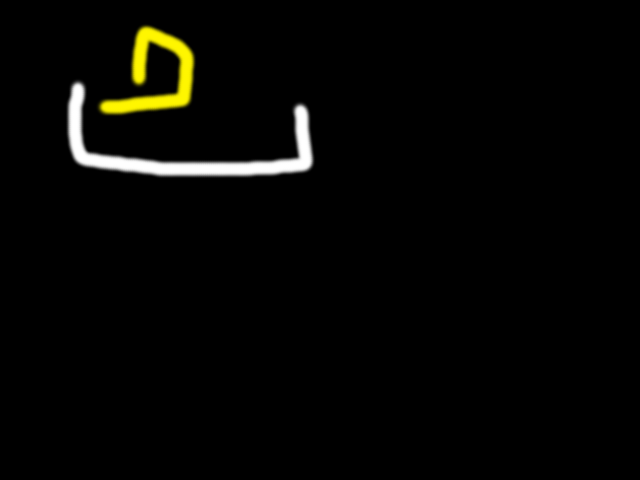
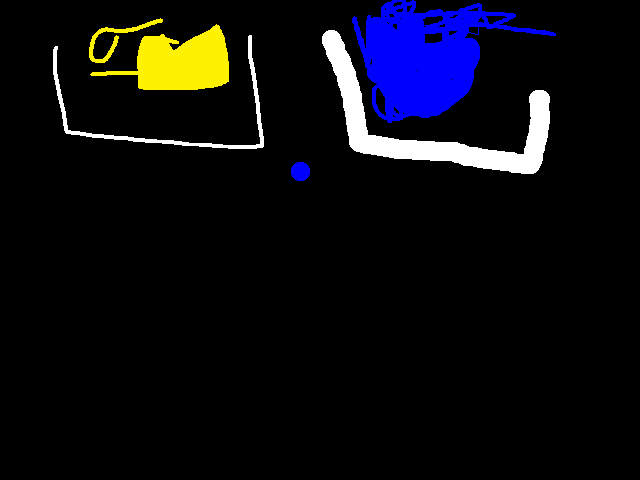
well, we got flow working, after a fashion
Not sure if I want to do better simulation or gamedesign work tomorrow.

Changed region(s): [[0.0625, 0.0312, 0.5, 0.375], [0.5, 0.0, 0.875, 0.375], [0.8125, 0.0625, 0.875, 0.0938]]

diff --git a/gameplay/Game.py b/gameplay/Game.py
@@ -2,42 +2,116 @@ from GLUtil.Loaders import dshader, dimage
 from GLUtil.FrameBufferManager import FrameBuffer
 from GLUtil.UniformProvider import UniformProvider
 from pyglet import graphics
+from pyglet.window import key
 from pyglet.gl import GL_TRIANGLES as TRIANGLE
+import random
+
+import math
 square_2d=('v2i',(-1,-1, 1,-1, -1,1,
                     1,-1, -1,1, 1,1))#note that v2i means int distances with 2 nodes per vertex
+class PixelMaterial:
+    def __init__(self, name,color, initialState,mobile, max_spread, spread_rate, physicsShader=None):
+        self.name=name
+        self.color=color
+        self.initialState=initialState
+        self.mobile=mobile
+        self.shader=physicsShader
+        self.max_spread=max_spread
+        self.spread_rate=spread_rate
+class Direction:
+    def __init__(self, x, y):
+        #range of the atan2 is -pi to pi, starting from positive y axis going left(positive) or right(negative)
+        # WE want -1 to 1(that's what we transform input to in shader) starting from negative y axis
+        #so... divide by pi, invert y
+        self.packed_angle=((math.atan2(x,-y)/math.pi))
+        self.stepVector=[float(x),float(y)]
+    def __repr__(self):
+        return {1.0:'up',-1.0:'down'}.get(self.stepVector[1],'')+{1.0:'right',-1.0:'left'}.get(self.stepVector[0],'')
+    def __str__(self):
+        return {1.0:'up',-1.0:'down'}.get(self.stepVector[1],'')+{1.0:'right',-1.0:'left'}.get(self.stepVector[0],'')
+
 class WaveStopperGame:
     def __init__(self, levelname, window):
+        self.sand=PixelMaterial("sand",[1.0,1.0,0.0],[0.5, 0.0, 0.0, 1.0], True, 1/4, 1/255)
+        self.water=PixelMaterial("water",[0.0,0.0,1.0],[0.5, 0.0, 0.0, 0.25],True, 1.0, 15/255)
+        self.fixed=PixelMaterial("fixed",[1.0,1.0,1.0],[0.0, 0.0, 0.0, 1.0], False,0,0)
+        self.materials=[ self.sand, self.water, self.fixed,]
+        self.mobileMaterials=[material for material in self.materials if material.mobile]
+        
+        self.directions=[ Direction(0,-1),Direction(1,-1), Direction(-1,-1), Direction(-1,0), Direction(1,0),Direction(0,1), Direction(-1,1), Direction(1,1)]
+        self.down=self.directions[0]
+        self.not_down=self.directions[1:]
         self.ticks=0
         self.time=0
         self.start_texture=dimage(levelname)
         self.blit_shader=dshader('2d','justblit')
         self.update_shader=dshader('2d','updatebuffers')
         self.frame_buffers=[FrameBuffer(self.start_texture.width, self.start_texture.height,window, num_color_attachments=2) for _ in range(2)]
+        self.window=window;
         self.setup_initial_frame()
         pass
     def setup_initial_frame(self):
         frame_buffer=self.frame_buffers[0]
         fire_and_forget=dshader('2d','initializeBuffers')
+        width=self.start_texture.width
+        height=self.start_texture.height
         with fire_and_forget: #construct and dispose a 1 time shader?
-            with UniformProvider(fire_and_forget, intexture=self.start_texture):
-                with frame_buffer:
-                    graphics.draw(6,TRIANGLE, square_2d )
-
-    def update(self, dt):
-        self.ticks+=1
-        self.time+=dt
-        frame_buffer=self.frame_buffers[self.ticks%len(self.frame_buffers)]
-        prev_frame=self.frame_buffers[(self.ticks-1)%len(self.frame_buffers)]
-        with self.update_shader:
             with frame_buffer:
-                with UniformProvider(self.update_shader,previous_frame=prev_frame.textures[0], previous_status=prev_frame.textures[1]):#just have to know that this is how these buffers are arranged
-                    graphics.draw(6,TRIANGLE, square_2d )
-                    pass
+                assert frame_buffer.textures[0].width==self.start_texture.width,"how can they not match??"
+                self.window.clear();
+                for material in self.materials:
+                    with UniformProvider(fire_and_forget, intexture=self.start_texture, targetColor=material.color,colorTolerance=0.1, initialStatusColors=material.initialState):
+                        graphics.draw(6,TRIANGLE, square_2d )
+            frame_buffer.textures[0].save('setup.png')
+
+    def update(self, dt, pressedkeys):
+        
+        self.time+=dt
+        self.bufferIndex=0
+        #random.shuffle(self.not_down)
+        #self.window.clear();
+        tick_stride=len(self.mobileMaterials) * 3
+        mat_stride=3
+        with self.update_shader:
+            for matIndex, material in enumerate(self.mobileMaterials):
+                for dirIndex, direction in enumerate([self.down, random.choice(self.not_down),random.choice(self.not_down)]):
+
+                    bufferIndex=self.ticks*tick_stride+matIndex*mat_stride+dirIndex+1
+                    frame_buffer=self.frame_buffers[bufferIndex%len(self.frame_buffers)]
+                    prev_frame=self.frame_buffers[(bufferIndex-1)%len(self.frame_buffers)]
+                    self.bufferIndex=bufferIndex
+                    self.updateSingleMaterial(frame_buffer,prev_frame,material, direction)
+                    if key.F10 in pressedkeys:
+                        print(f'Ran material {material.name} with color {material.color} on buffer {bufferIndex}({dirIndex},{matIndex},{self.ticks}) for direction {direction}')
+                        frame_buffer.textures[0].save(f'frame{self.ticks}-{material.name}-{direction.stepVector}FG.png')
+                        frame_buffer.textures[1].save(f'frame{self.ticks}-{material.name}-{direction.stepVector}BG.png')
+        self.ticks+=1
+
+    def updateSingleMaterial(self,frame_buffer, prev_frame,material, direction):
+        with frame_buffer:
+            self.window.clear();#abusive, but window.clear is apparently lazy as hell in pyglet, and will wipe our frame_buffer instead
+                
+            with UniformProvider(self.update_shader,
+                                previous_frame=prev_frame.textures[0], 
+                                previous_status=prev_frame.textures[1],
+                                size=[float(self.start_texture.width), float(self.start_texture.height)],
+                                move_direction=direction.stepVector,
+                                move_angle=direction.packed_angle,
+                                colorTolerance=0.1, #being within a unit circle 1 wide from the target color is good enough
+                                simulatedColor=material.color,
+                                spread_rate=material.spread_rate,
+                                max_spread=material.max_spread,
+                                ):#just have to know that this is how these buffers are arranged
+                graphics.draw(6,TRIANGLE, square_2d )
+                        
     def draw(self,window):
-        frame_buffer=self.frame_buffers[self.ticks%len(self.frame_buffers)]
+        frame_buffer=self.frame_buffers[self.bufferIndex%len(self.frame_buffers)]
         window.clear()
         #self.start_texture.blit(0,0,0, 640, 480)
         frame_buffer.textures[0].blit(0,0,0)
+        frame_buffer.textures[1].blit(frame_buffer.textures[0].width,0,0)
+        #self.start_texture.blit(frame_buffer.textures[0].width,0,0)
+        
         #with self.blit_shader:
         #    with UniformProvider(self.blit_shader, intexture=self.start_texture):
         #        graphics.draw(6,TRIANGLE, square_2d )

diff --git a/gameplay/Windows.py b/gameplay/Windows.py
@@ -6,19 +6,28 @@ from gameplay.Game import WaveStopperGame
 
 class GameWindow:
     def __init__(self, width, height):
+        self.keystate=set()
         display=pyglet.canvas.get_display()
         screen=display.get_default_screen()
         config=pyglet.gl.Config(double_buffer=True)
-        self.window=pyglet.window.Window(640, 580, "Wave Stopper",True,pyglet.window.Window.WINDOW_STYLE_DEFAULT,
+        self.window=pyglet.window.Window(width, height+20, "Wave Stopper",True,pyglet.window.Window.WINDOW_STYLE_DEFAULT,
                                 False,True,False,display,screen,config)
         self.window.push_handlers(on_draw=self.draw)
+        self.window.push_handlers(on_key_press=self.keydown, on_key_release=self.keyup)
         self.activeScreen=WaveStopperGame('testlevel', self.window)
         pyglet.clock.schedule(self.update)
     def draw(self):
         self.activeScreen.draw(self.window)
     def update(self, dt):
-        self.activeScreen.update(dt)
+        self.activeScreen.update(dt, self.keystate)
         pass
+    def keydown(self,symbol, modifiers):
+        self.keystate.add(symbol)
+        
+    def keyup(self, symbol, modifiers):
+        self.keystate.remove(symbol)
+        
+
     def run(self):
         pyglet.app.run()
 

diff --git a/GLUtil/FrameBufferManager.py b/GLUtil/FrameBufferManager.py
@@ -9,7 +9,7 @@ class FrameBuffer:
     def __init__(self, width, height, window, num_color_attachments=1, mapping_mode=None, provide_depth=False, provide_stencil=False):
         """"Create an arbitrary layer framebuffer, I'll add stencil and depthbuffers if I ever package this for resuse, in pyweek, those args are pretty much placeholders"""
         if mapping_mode is None:
-            mapping_mode=gl.GL_LINEAR
+            mapping_mode=gl.GL_NEAREST
         assert not provide_stencil, 'stencil buffer not implemented'
         assert not provide_depth, 'depth buffer not implemented'
         self.window=window

diff --git a/GLUtil/UniformProvider.py b/GLUtil/UniformProvider.py
@@ -60,7 +60,7 @@ class UniformProvider:
             except TypeError:
                 gltype=self.getGLType(value[0])
                 self.getSetter(gltype,length,False)(location, *[gltype(x) for x in value])
-        except TypeError:
+        except TypeError as e:
             gltype=self.getGLType(value)
             self.getSetter(gltype,1,False)(location,gltype(value))
             

diff --git a/main.py b/main.py
@@ -2,7 +2,7 @@ from gameplay.Windows import GameWindow
 
 
 def main():
-    game=GameWindow(640, 480)
+    game=GameWindow(1280, 480)
     game.run()
 
 if __name__=="__main__":
